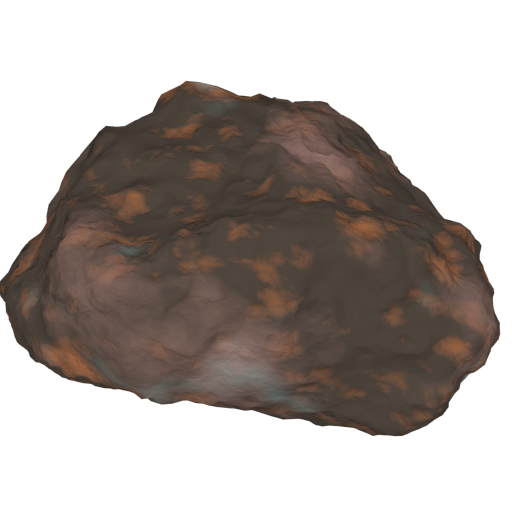
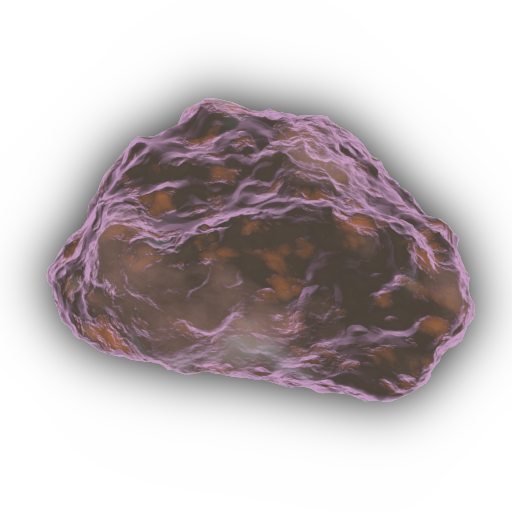
asteroid finaly behaves as expected

diff --git a/src/swift2d/physics/Physics.cpp b/src/swift2d/physics/Physics.cpp
@@ -134,23 +134,10 @@ void Physics::update(double time) {
 b2Body* Physics::add(DynamicBodyComponent* body) {
   auto transform(body->get_user()->WorldTransform());
   math::vec2 pos(math::get_translation(transform));
-  float rot(math::get_rotation(transform));
-
-  b2BodyDef bodyDef;
-  bodyDef.type = b2_dynamicBody;
-  bodyDef.position.Set(pos.x(), pos.y());
-  bodyDef.angle = rot;
-  b2Body* result = world_->CreateBody(&bodyDef);
-
-  result->SetUserData(body);
 
   b2FixtureDef fixtureDef;
-  fixtureDef.density = body->Density();
-  fixtureDef.friction = body->Friction();
-  fixtureDef.restitution = body->Restitution();
 
   b2Shape* shape;
-
   if (!body->Shape()) {
     Logger::LOG_WARNING << "Failed to add DynamicBodyComponent: "
                         << "No CollisionShape attached!" << std::endl;
@@ -158,8 +145,19 @@ b2Body* Physics::add(DynamicBodyComponent* body) {
   } else {
     shape = body->Shape()->get_shape(transform);
   }
+  fixtureDef.density = body->Density();
+  fixtureDef.friction = body->Friction();
+  fixtureDef.restitution = body->Restitution();
   fixtureDef.shape = shape;
 
+  b2BodyDef bodyDef;
+  bodyDef.type = b2_dynamicBody;
+  bodyDef.position.Set(pos.x(), pos.y());
+  bodyDef.angle = math::get_rotation(transform);
+
+  b2Body* result = world_->CreateBody(&bodyDef);
+
+  result->SetUserData(body);
   result->CreateFixture(&fixtureDef);
   result->SetLinearDamping(body->LinearDamping());
   result->SetAngularDamping(body->AngularDamping());

diff --git a/examples/mars/src/Asteroid.cpp b/examples/mars/src/Asteroid.cpp
@@ -22,8 +22,6 @@ Asteroid::Asteroid()
 
 void Asteroid::update(double time) {
 
-  SceneObject::update(time);
-
   if (!initialized_) {
     initialized_ = true;
 
@@ -62,16 +60,14 @@ void Asteroid::update(double time) {
     dirt->EndColor = swift::Color(Color().r(), Color().g(), Color().b(), 0);
     dirt->Mass = 1;
 
-    auto g_source = add<GravitySourceComponent>();
-    g_source->Density = Density();
-
-    auto body = add<DynamicBodyComponent>();
     auto shape = PolygonCollisionShape::create();
+    auto body = add<DynamicBodyComponent>();
     shape->Coordinates = ShapeCorners;
-    body->Shape = shape;
     body->LinearDamping = 0;
     body->Density = 0.2;
     body->AngularDamping = 0;
+    body->Shape = shape;
+
     body->start_contact_with_dynamic.connect([this, dirt](DynamicBodyComponent* other, math::vec2 const& pos) {
 
       auto dir(pos - math::get_translation(WorldTransform()));
@@ -91,9 +87,11 @@ void Asteroid::update(double time) {
       }
     });
 
-    body->apply_angular_impulse(1);
-    body->apply_local_linear_impulse(math::vec2(1.f, 1.f));
+    // body->apply_angular_impulse(1);
+    // body->apply_local_linear_impulse(math::vec2(1.f, 1.f));
   }
+
+  SceneObject::update(time);
 }
 
 ////////////////////////////////////////////////////////////////////////////////

diff --git a/examples/mars/src/AssetManager.cpp b/examples/mars/src/AssetManager.cpp
@@ -14,12 +14,14 @@
 AssetManager::AssetManager() {
 
   TextureDatabase::instance()->add("point_light", Texture::create(Application::instance()->get_resource("images", "light.png")));
-  TextureDatabase::instance()->add("bullet", Texture::create(Application::instance()->get_resource("images", "bullet.png")));
+  TextureDatabase::instance()->add("bullet", Texture::create(Application::instance()->get_resource("images", "asteroid_diffuse0.png")));
+  TextureDatabase::instance()->add("bulletn", Texture::create(Application::instance()->get_resource("images", "asteroid_normal0.png")));
 
   auto mat1 = SpriteMaterial::create();
   mat1->DiffuseTexture = TextureDatabase::instance()->get("bullet");
-  mat1->Emit = 1.0;
-  mat1->Glow = 0.5;
+  mat1->NormalTexture = TextureDatabase::instance()->get("bulletn");
+  mat1->Emit = 0.3;
+  mat1->Glow = 0.0;
   MaterialDatabase::instance()->add("bullet", mat1);
 
   auto mat2 = PointLightMaterial::create_from_database("point_light");

diff --git a/examples/mars/include/Bullet.hpp b/examples/mars/include/Bullet.hpp
@@ -26,7 +26,7 @@ class Bullet: public SceneObject {
     Transform = math::make_translation(position.x(), position.y()) * math::make_scale(0.8) * math::make_rotation(rot);
 
     auto shape = PolygonCollisionShape::create();
-         shape->Coordinates = {math::vec2(-1.f, -1.f), math::vec2(1.f, -1.f), math::vec2(0.0f, 1.f)};
+         shape->Coordinates = {math::vec2(-0.8, -0.2), math::vec2(0.6 ,-0.6), math::vec2(0.8 ,-0.1), math::vec2(0.4 ,0.5), math::vec2(-0.3, 0.6)};
     auto body = add<DynamicBodyComponent>();
          body->Density = 1;
          body->Shape = shape;

diff --git a/src/swift2d/physics/DynamicBodyComponent.cpp b/src/swift2d/physics/DynamicBodyComponent.cpp
@@ -117,8 +117,8 @@ void DynamicBodyComponent::update(double time) {
 
   auto transform(get_user()->Transform.get());
 
-  math::set_translation(transform, position.x, position.y);
   math::set_rotation(transform, angle);
+  math::set_translation(transform, position.x, position.y);
 
   get_user()->Transform.set(transform);
 }

diff --git a/src/swift2d/physics/PolygonCollisionShape.cpp b/src/swift2d/physics/PolygonCollisionShape.cpp
@@ -33,6 +33,7 @@ b2Shape* PolygonCollisionShape::get_shape(math::mat3 const& body_transform) cons
 
   auto shape(new b2PolygonShape());
   shape->Set(vertices, Coordinates.size());
+
   return shape;
 }
 
